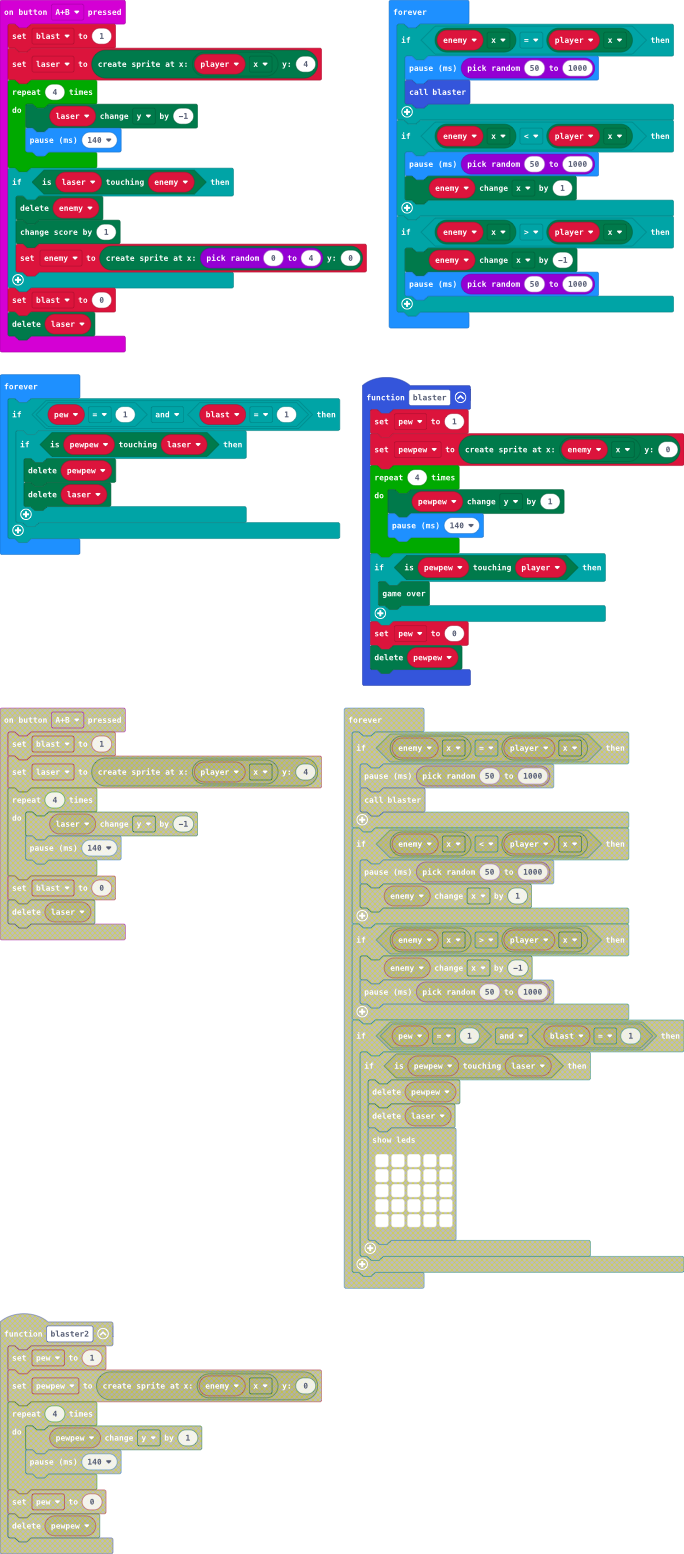
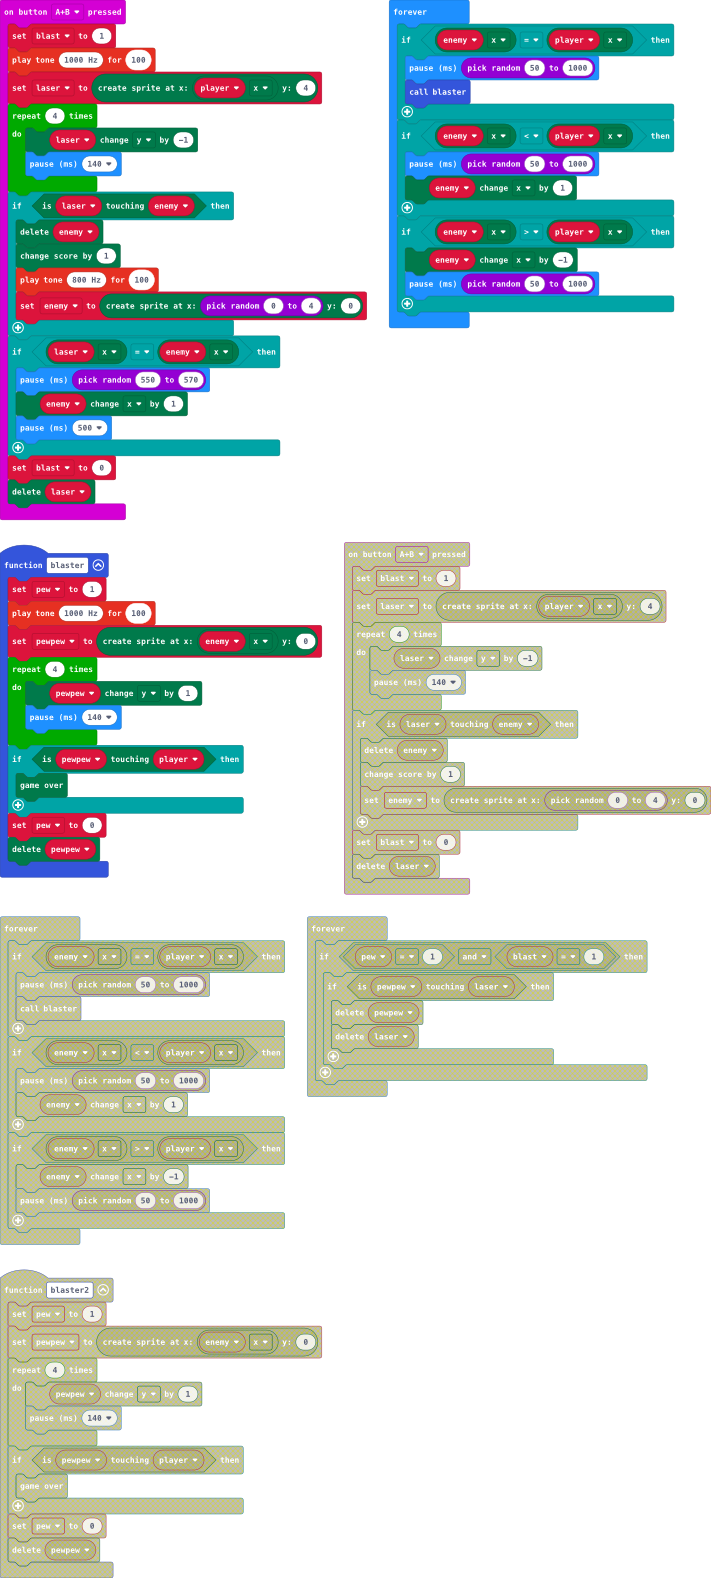
Update main.blocks, main.ts

diff --git a/main.ts b/main.ts
@@ -3,6 +3,7 @@ input.onButtonPressed(Button.A, function () {
 })
 function blaster () {
     pew = 1
+    music.playTone(1000, 100)
     pewpew = game.createSprite(enemy.get(LedSpriteProperty.X), 0)
     for (let index = 0; index < 4; index++) {
         pewpew.change(LedSpriteProperty.Y, 1)
@@ -16,6 +17,7 @@ function blaster () {
 }
 input.onButtonPressed(Button.AB, function () {
     blast = 1
+    music.playTone(1000, 100)
     laser = game.createSprite(player.get(LedSpriteProperty.X), 4)
     for (let index = 0; index < 4; index++) {
         laser.change(LedSpriteProperty.Y, -1)
@@ -24,11 +26,12 @@ input.onButtonPressed(Button.AB, function () {
     if (laser.isTouching(enemy)) {
         enemy.delete()
         game.addScore(1)
+        music.playTone(800, 100)
         enemy = game.createSprite(randint(0, 4), 0)
     }
-    if (laser.get(LedSpriteProperty.X)==enemy.get(LedSpriteProperty.X)){
-        basic.pause (randint (550,570))
-        enemy.change(LedSpriteProperty.X,1)
+    if (laser.get(LedSpriteProperty.X) == enemy.get(LedSpriteProperty.X)) {
+        basic.pause(randint(550, 570))
+        enemy.change(LedSpriteProperty.X, 1)
         basic.pause(500)
     }
     blast = 0
@@ -57,14 +60,5 @@ basic.forever(function () {
     if (enemy.get(LedSpriteProperty.X) > player.get(LedSpriteProperty.X)) {
         enemy.change(LedSpriteProperty.X, -1)
         basic.pause(randint(50, 1000))
-    }
-    
-})
-basic.forever(function () {
-    if (pew == 1 && blast == 1) {
-        if (pewpew.isTouching(laser)) {
-            pewpew.delete()
-            laser.delete()
-        }
     }
 })
